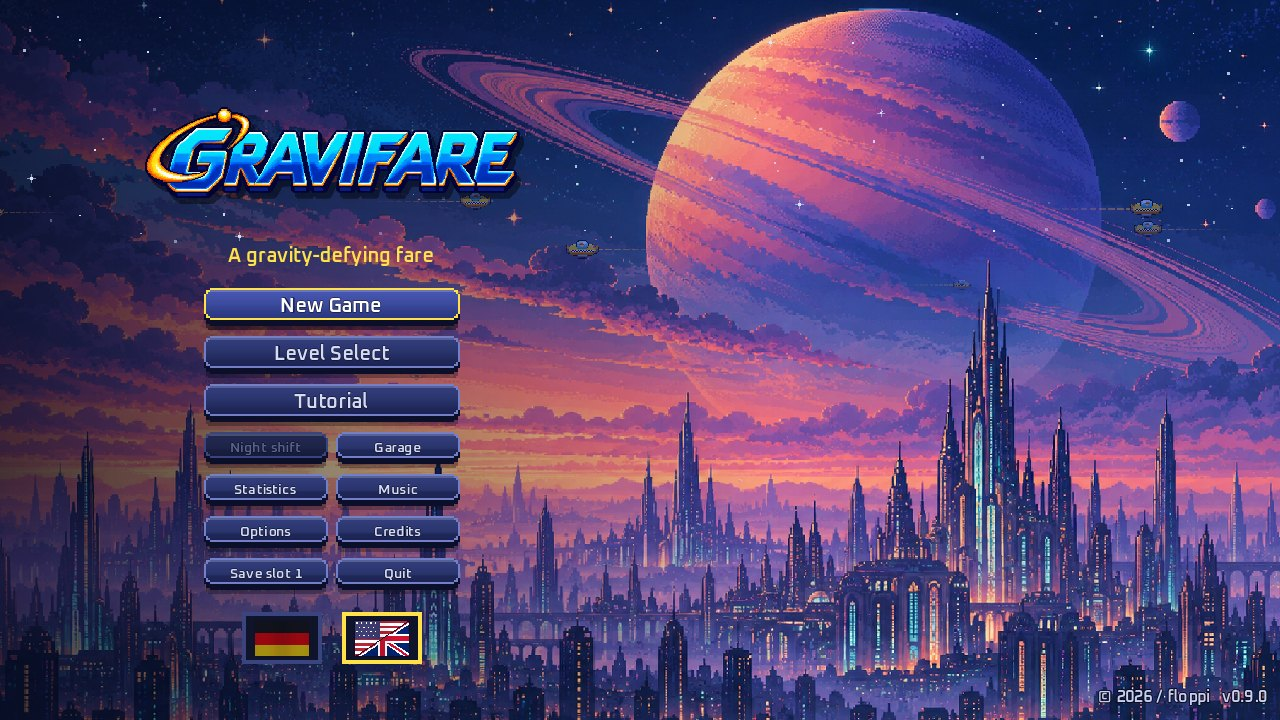
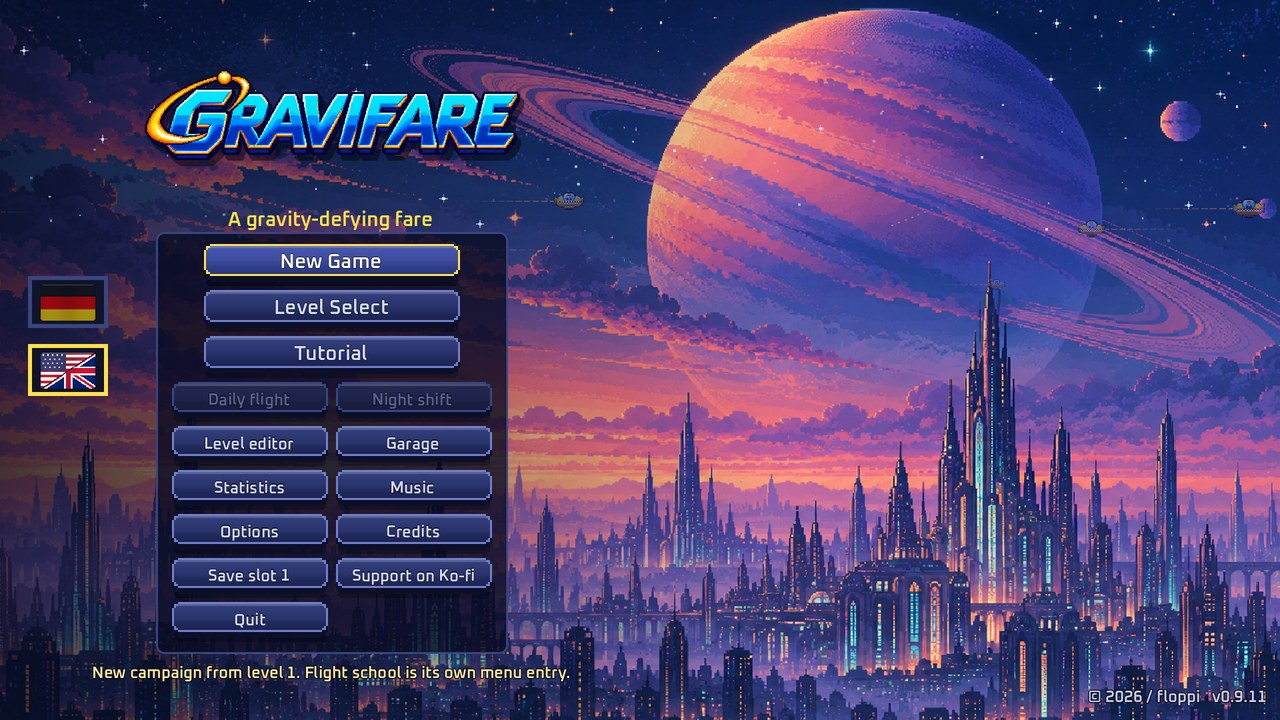
Version 0.9.11: Meteor trifft nur am sichtbaren Brocken, neue Screenshots
Große Meteoriten (Level 95, 5 × 5 Felder) trafen im vollen Rechteck der
Leveldatei, gezeichnet ist aber ein runder Brocken; in den Ecken wurde
das Taxi ohne sichtbaren Kontakt getroffen. Die Spiellogik prüft jetzt
eine Ellipse in Größe der Zeichnung, begrenzt auf das alte Rechteck
(kleine Meteoriten unverändert). Der Autopilot plant weiter mit dem
Rechteck. Test _test_meteor_hitbox, DESIGN.md Runde 55.

README-Galerie mit der neuen Grafik neu aufgenommen (DE/EN), dazu
Werkstatt und Level-Editor; Nachtschicht-Text an die Lichtkegel des
Verkehrs angepasst. Änderungsliste 0.9.11.

diff --git a/docs/CHANGELOG.md b/docs/CHANGELOG.md
@@ -3,6 +3,54 @@
 Die Texte stehen in den GitHub-Release-Notes („Neu in x“ / „What's new in x“), hier zur Nachlese.
 The text of each section is used in the GitHub release notes ("Neu in x" / "What's new in x").
 
+## 0.9.11
+
+### Deutsch
+
+**Grafik**
+- Taxi und Fahrgäste neu gezeichnet: schattierter Rumpf mit Glanz, Kuppel mit Spiegelung, Fahrer mit Mütze; Fahrgäste mit Laufzyklus und Koffer
+- 14 Fahrgastfiguren statt 4, jede Stimme hat ihre eigene, passende Figur; die Namen wechseln jetzt auch von Sektor zu Sektor
+- Eigene Verkehrsfahrzeuge (Pendlergleiter) in fünf Farben statt umgefärbter Taxis, mit weißem Scheinwerferkegel vorn und rotem Rücklicht hinten – auch in der Dunkelheit leuchten sie nur noch nach vorn und hinten
+- Jeder Sektor hat seine eigene Haltestelle (Kristalle, Wellblech, Eiszapfen, Solarpaneel, Bullaugen, Bahnhofsuhr, Leuchtpilze …)
+- Weiche Schatten unter Felsen und Plattformen, Bodenschatten unter Fahrgästen und Fahrzeugen, Triebwerksflammen aus Pixelzeilen
+- Sektor 7: Wände dunkler, sie heben sich besser vom hellen Himmel ab
+
+**Oberfläche**
+- HUD: dunkle Leiste oben über die ganze Breite, gut lesbare Tank- und Hüllenanzeige, Landeanzeige mit Symbolen und gestreiften Warnbalken
+- Wimpelzahlen, Torschild und Fahrpreis besser lesbar; Hauptmenü mit Tafel hinter den Knöpfen
+- Eigenes Leben-Symbol in der Farbe der Lackierung
+- Werkstatt überarbeitet: Karten mit Symbol, Stufen, Wirkung jetzt › nächste Stufe und rotem Preis, wenn das Geld nicht reicht; das Taxi zeigt das gewählte Teil, die Halle ist eingerichtet
+- Garage zeigt Farbfelder und Aufkleber, gesperrte Teile lassen sich in der Vorschau ansehen; Statistik mit Tafel und Symbolen
+
+**Klang**
+- Eigene Warntöne für Plasmastrahl und Meteorit; in den letzten 15 Sekunden des Ausgangs tickt eine Uhr, zum Schluss schneller
+
+**Behoben**
+- Große Meteoriten (z. B. Level 95) trafen schon in den leeren Ecken um den Brocken; getroffen wird jetzt nur noch, wer den sichtbaren Brocken berührt
+
+### English
+
+**Graphics**
+- Taxi and passengers redrawn: shaded hull with highlight, dome with reflection, driver with a cap; passengers with a walk cycle and suitcase
+- 14 passenger figures instead of 4, every voice has its own matching figure; names now also change from sector to sector
+- Own traffic vehicles (commuter gliders) in five colours instead of recoloured taxis, with a white headlight cone in front and a red tail light behind – in the dark they now only light up forwards and backwards
+- Every sector has its own shelter (crystals, corrugated iron, icicles, solar panel, portholes, station clock, glowing mushrooms …)
+- Soft shadows below rocks and platforms, ground shadows under passengers and vehicles, pixel-row engine flames
+- Sector 7: darker walls that stand out better against the bright sky
+
+**Interface**
+- HUD: dark bar across the full width at the top, readable fuel and hull gauges, landing gauge with symbols and striped warning bars
+- Flag numbers, gate sign and fare easier to read; main menu with a panel behind the buttons
+- Own life icon in the colour of your paint job
+- Workshop reworked: cards with icon, levels, effect now › next level and a red price when you can't afford it; the taxi shows the selected part, and the hall is furnished
+- Garage shows colour swatches and stickers, locked items can be previewed; statistics with a panel and icons
+
+**Sound**
+- Own warning sounds for plasma beams and meteors; in the last 15 seconds before the exit closes a clock ticks, faster at the end
+
+**Fixed**
+- Large meteors (e.g. level 95) already hit you in the empty corners around the rock; now only touching the visible rock counts as a hit
+
 ## 0.9.10
 
 ### Deutsch

diff --git a/README.md b/README.md
@@ -42,14 +42,16 @@ Alles im Trailer stammt aus dem echten Spiel und den 99 handgemachten Leveln (Au
 
 | | |
 |---|---|
-| ![Hauptmenü](docs/media/de/menu.jpg) | ![Neue Gefahr: Lavablasen im Takt](docs/media/de/lava.jpg) |
-| **Hauptmenü** | **Neue Gefahr: Lavablasen im Takt** |
+| ![Hauptmenü](docs/media/de/menu.jpg) | ![Sektor 5 – Hitze und Lavablasen im Takt](docs/media/de/lava.jpg) |
+| **Hauptmenü** | **Sektor 5 – Hitze und Lavablasen im Takt** |
 | ![Flugschule mit Fluglehrer (Stimme, Untertitel, Hinweise)](docs/media/de/tutorial.jpg) | ![Sektor 1 – Fahrgäste, Tankstelle, Tor](docs/media/de/sector1.jpg) |
 | **Flugschule mit Fluglehrer (Stimme, Untertitel, Hinweise)** | **Sektor 1 – Fahrgäste, Tankstelle, Tor** |
 | ![Sektor 3 – bewegliche Plattformen](docs/media/de/sector3.jpg) | ![Sektor 6](docs/media/de/sector6.jpg) |
 | **Sektor 3 – bewegliche Plattformen** | **Sektor 6** |
-| ![Nachtschicht – nur das Taxi leuchtet](docs/media/de/night.jpg) | ![Garage – Lackierungen und Aufkleber](docs/media/de/garage.jpg) |
-| **Nachtschicht – nur das Taxi leuchtet** | **Garage – Lackierungen und Aufkleber** |
+| ![Nachtschicht – im Dunkeln leuchten nur Lampen und Scheinwerfer](docs/media/de/night.jpg) | ![Garage – Lackierungen und Aufkleber](docs/media/de/garage.jpg) |
+| **Nachtschicht – im Dunkeln leuchten nur Lampen und Scheinwerfer** | **Garage – Lackierungen und Aufkleber** |
+| ![Werkstatt – Düsen, Hülle und Fahrwerk aufrüsten](docs/media/de/workshop.jpg) | ![Level-Editor – eigene Level bauen, testen und teilen](docs/media/de/editor.jpg) |
+| **Werkstatt – Düsen, Hülle und Fahrwerk aufrüsten** | **Level-Editor – eigene Level bauen, testen und teilen** |
 
 ## Was drinsteckt
 
@@ -123,14 +125,16 @@ Everything in the trailer comes from the real game and its 99 handmade levels (a
 
 | | |
 |---|---|
-| ![Main menu](docs/media/en/menu.jpg) | ![New hazard: lava bubbles in rhythm](docs/media/en/lava.jpg) |
-| **Main menu** | **New hazard: lava bubbles in rhythm** |
+| ![Main menu](docs/media/en/menu.jpg) | ![Sector 5 – heat and lava bubbles in rhythm](docs/media/en/lava.jpg) |
+| **Main menu** | **Sector 5 – heat and lava bubbles in rhythm** |
 | ![Flight school with an instructor (voice, subtitles, hints)](docs/media/en/tutorial.jpg) | ![Sector 1 – passengers, fuel station, gate](docs/media/en/sector1.jpg) |
 | **Flight school with an instructor (voice, subtitles, hints)** | **Sector 1 – passengers, fuel station, gate** |
 | ![Sector 3 – moving platforms](docs/media/en/sector3.jpg) | ![Sector 6](docs/media/en/sector6.jpg) |
 | **Sector 3 – moving platforms** | **Sector 6** |
-| ![Night shift – only the taxi glows](docs/media/en/night.jpg) | ![Garage – paint jobs and stickers](docs/media/en/garage.jpg) |
-| **Night shift – only the taxi glows** | **Garage – paint jobs and stickers** |
+| ![Night shift – in the dark only lamps and headlights glow](docs/media/en/night.jpg) | ![Garage – paint jobs and stickers](docs/media/en/garage.jpg) |
+| **Night shift – in the dark only lamps and headlights glow** | **Garage – paint jobs and stickers** |
+| ![Workshop – upgrade jets, hull and landing gear](docs/media/en/workshop.jpg) | ![Level editor – build, test and share your own levels](docs/media/en/editor.jpg) |
+| **Workshop – upgrade jets, hull and landing gear** | **Level editor – build, test and share your own levels** |
 
 ## What's inside
 

diff --git a/DESIGN.md b/DESIGN.md
@@ -530,3 +530,10 @@ Jede Warte-Bedingung muss erreichbar bleiben, egal was der Spieler tut (`Tutoria
 - **Werkstatt:** Einbauten als Karten mit Symbol (`assets/art/ws_icons.png`), drei Stufenfeldern, Wirkung „Jetzt … › nächste Stufe“ und rotem Preis, wenn das Geld nicht reicht; darunter die Beschreibung des fokussierten Einbaus. Das Taxi zeigt das gewählte Teil (Düsen glühen, Schildschimmer um den Rumpf, leuchtende Federbeine). Die Halle hat Lochwand mit Werkzeug, Diagnosemonitor mit Ausbaustand, Ersatzteilregal und Sicherheitsmarkierung. Neue Texte `WS_AVAILABLE`, `WS_NOW`, `WS_STOCK`, `WS_EFF_*` (DE/EN); `WS_CREDITS` entfällt.
 - **Namen:** `PassengerActor.rotated_name` rechnet den Sektor ein; der erste Fahrgast in Level 5, 16, 27 … heißt nicht mehr überall gleich. Da Figur und Stimme aus dem Namen folgen, wechseln sie dort mit.
 - Quellen: `tools/art/aseprite/gen_round2.py`, `shelters.aseprite`, `life_icon.aseprite`, `stat_icons.aseprite`, `ws_icons.aseprite`. Test `_test_round54_visuals`.
+
+## Runde 55: Trefferfläche großer Meteoriten
+
+- **Fehler:** In Level 95 (S9-07, Gezeitenkraft) fällt ein Meteorit mit 5 × 5 Feldern. Getroffen wurde bisher, wer das volle 80 × 80-Rechteck aus der Leveldatei berührte; gezeichnet wird aber ein runder Brocken mit rund 33 Einheiten Radius (`PropsView._draw_meteor`). In den Ecken des Rechtecks lagen gut 20 Einheiten Luft, das Taxi zerschellte dort ohne sichtbaren Kontakt (Stoß nach unten, Schaden, Aufprall).
+- **Lösung:** Die Spiellogik prüft Meteoriten gegen eine Ellipse in Größe des gezeichneten Brockens (`LevelData.meteor_radii`: 85 % des gezeichneten Radius, senkrecht × 0,86 wie die Zeichnung), begrenzt auf das bisherige Rechteck. Kleine Meteoriten (1 Feld) behalten damit ihre Fläche, nur die leeren Ecken entfallen. Betroffen sind `movers_hit_box`, `movers_at_box`, `is_solid_at` und das Einschlagen in `TaxiSim._mover_push` (gemeinsam über `LevelData.mover_touches`).
+- **Autopilot** plant weiter mit dem vollen Rechteck (`_mover_rect(..., plan = true)`, `lane_rect`, `meteor_threat`); die Ellipse liegt immer darin, Bot-Lösungen bleiben gültig.
+- Test `_test_meteor_hitbox`: Ecke des Rechtecks ohne Treffer (auch über drei Sekunden des Falls), Mitte und Rand des Brockens mit Treffer, kleine Meteoriten nie größer als vorher.
